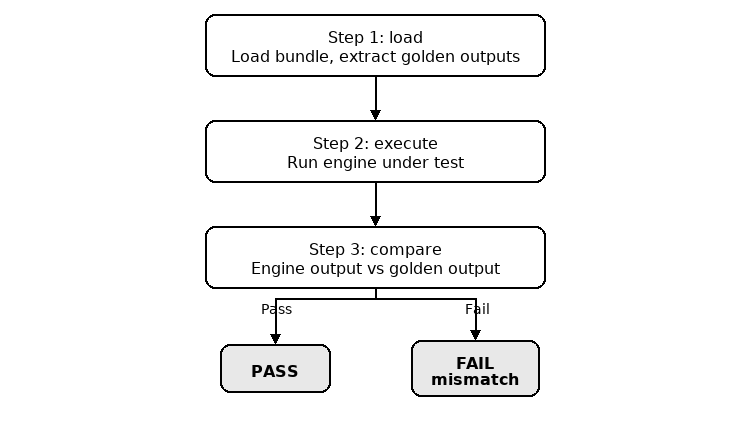
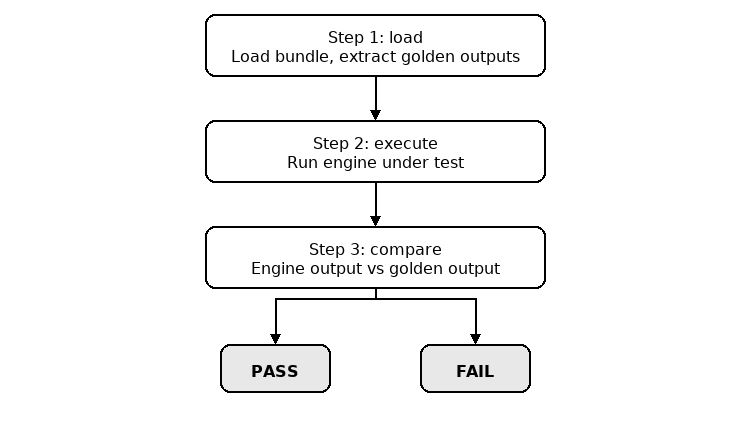
[hipDNN] RFC 0010: tighten Design Overview and Verification Modes
- Name both pipelines (generation, validation) upfront with anchor links
- Describe deserialization flow: JSON → FlatBuffers graph → engine
- Add links from step list headers to Detailed Design sections
- Simplify Verification Modes: remove repeated bullet list, keep table
- Remove redundant Pass/Fail text labels from validation diagram
- Add transition sentence before Self-Contained Bundles

diff --git a/projects/hipdnn/docs/rfcs/0010_GoldenReferenceValidation.md b/projects/hipdnn/docs/rfcs/0010_GoldenReferenceValidation.md
@@ -44,14 +44,14 @@ A prior effort established a golden reference pattern -- golden data bundles (gr
 
 ## Design Overview
 
-Golden reference validation uses two pipelines that share a common data format -- the **golden data bundle** (`{Name}.json` + `{Name}.tensor{uid}.bin`). A bundle is a self-contained test case: the graph JSON defines the computation, the `.bin` files carry the tensor data (inputs and expected outputs). No C++ code, `buildGraph()` function, or test fixture is referenced. The test runner is generic -- it loads whatever bundle it finds and validates it.
+Golden reference validation uses two pipelines -- [**generation**](#generation-pipeline) and [**validation**](#generic-test-runner) -- that share a common data format: the **golden data bundle** (`{Name}.json` + `{Name}.tensor{uid}.bin`). A bundle is a self-contained test case: the graph JSON defines the computation, the `.bin` files carry the tensor data (inputs and expected outputs). Generation produces bundles; validation loads a bundle, deserializes the graph JSON into a FlatBuffers graph object, executes it through the engine under test (CPU reference or MIOpen GPU plugin), and compares the result to the expected output.
 
-**Generation (run once, any tool):**
+**[Generation](#generation-pipeline) (run once, any tool):**
 1. Define graph and create input tensors
 2. Run a reference source (PyTorch, CPU ref, etc.) to produce outputs
 3. Write the bundle
 
-**Validation (C++, every CI run):**
+**[Validation](#generic-test-runner) (C++, every CI run):**
 1. Load bundle from disk, extract golden outputs
 2. Execute engine under test
 3. Compare engine output to golden output — PASS or FAIL
@@ -74,7 +74,7 @@ The golden reference infrastructure is already built and working for batchnorm. 
 
 ### Self-Contained Bundles
 
-A golden data bundle (`{Name}.json` + `{Name}.tensor{uid}.bin`) is self-contained. The graph JSON carries the full computation definition. The `.bin` files carry the raw tensor data (inputs and outputs). Together they are a complete test case. The bundle does not reference any C++ code, any `buildGraph()` function, or any test fixture. If the computation changes, generate a new bundle.
+All of these components operate on a single shared artifact -- the golden data bundle. A bundle (`{Name}.json` + `{Name}.tensor{uid}.bin`) is self-contained. The graph JSON carries the full computation definition. The `.bin` files carry the raw tensor data (inputs and outputs). Together they are a complete test case. The bundle does not reference any C++ code, any `buildGraph()` function, or any test fixture. If the computation changes, generate a new bundle.
 
 This is test-as-data: the graph definition lives on disk, not in C++.
 
@@ -156,30 +156,17 @@ PyTorch is the recommended starting point because it is independent of the C++ c
 
 ### Verification Modes
 
-Three modes control which test suites run:
+Three modes control which test suites run. `computed` and `golden` are separate gtest suites with different test fixtures, parameterization, and data sources.
 
 | Mode | What runs | Reference source |
 |------|-----------|-----------------|
-| `computed` | Existing test-as-code tests (`IntegrationGraphVerificationHarness`) | CPU/GPU reference executor at runtime |
-| `golden` | Data-driven tests (`TestGoldenReferenceCpu` / `TestGoldenReferenceGpu`) | Pre-computed data from disk |
-| `both` | Both test suites | Both; both must pass |
+| `computed` | Test-as-code tests (`IntegrationGraphVerificationHarness`) — graph built by `buildGraph()` in C++ | CPU/GPU reference executor at runtime |
+| `golden` | Test-as-data tests (`TestGoldenReferenceCpu` / `TestGoldenReferenceGpu`) — graph loaded from disk | Pre-computed data from bundle |
+| `both` | Both suites, independently — both must pass | Both |
 
-**Key distinction**: `computed` and `golden` are **separate gtest suites**, not merged within a single test. They have different test fixtures, different parameterization, and different data sources.
+**Floating-point edge cases**: NaN in golden data is a generation error — the [generation-time validation](#generation-time-check-output-validation-python) rejects it before writing. `-0.0` vs `+0.0` uses value comparison, not bitwise.
 
-- **COMPUTED** tests use `IntegrationGraphVerificationHarness`. The graph is built by `buildGraph()` in C++. Inputs are randomly generated. The CPU/GPU reference executor runs at test time. This is the existing behavior, unchanged.
-
-- **GOLDEN** tests use `TestGoldenReferenceCpu` or `TestGoldenReferenceGpu`. The graph is loaded from JSON on disk. Inputs come from the data bundle. No `buildGraph()`. No runtime reference computation.
-
-- **BOTH** means both test suites run in CI. They are independent -- both must pass. There is no complex truth table or advisory mode. If either suite fails, the CI fails.
-
-#### Floating-Point Edge Cases
-
-- **NaN in golden data is a generation error.** Golden reference tensors should never contain NaN. If the reference executor produces NaN, the generator script is wrong (bad input range, numerical overflow, or a bug in the reference operation). The [generation-time validation](#generation-time-check-output-validation-python) rejects NaN before writing. If the engine under test produces NaN where the golden reference is a finite value, that is a hard FAIL.
-- **-0.0 vs +0.0**: Mathematically equal, bitwise different. The comparator uses value comparison, not bitwise comparison.
-
-#### Architecture Note
-
-All current golden data is generated from Python (PyTorch) or the CPU reference executor, which produce architecture-independent results. If GPU-generated golden data is introduced in the future, an architecture guard will be needed to skip tests when the current GPU does not match the generation architecture. See [Future Work](#future-work).
+**Architecture note**: all current golden data comes from Python or the CPU reference executor (architecture-independent). If GPU-generated data is added, an architecture guard will be needed. See [Future Work](#future-work).
 
 ---
 
